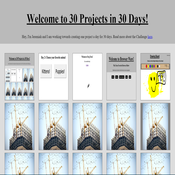
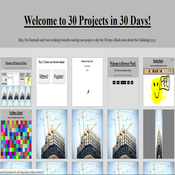
Day 6 is Done!
I had to do a short and sweet one today. Only had a couple hours to
brainstorm and create today.

diff --git a/index.html b/index.html
@@ -16,7 +16,7 @@
 		<figure class="flex-item"><a href="day_3/day_3.html"><img src="images/day3.png"><figcaption><h3>Day 3</h3><p>Catch the frog if you can.</p></figcaption></a></figure>
 		<figure class="flex-item"><a href="day_4/day_4.html"><img src="images/day4.png"><figcaption><h3>Day 4</h3><p>Take part in the Browser Wars!</p></figcaption></a></figure>
 		<figure class="flex-item"><a href="day_5/day_5.html"><img src="images/day5.png"><figcaption><h3>Day 5</h3><p>Test your art skills on the drawing board.</p></figcaption></a></figure>
-		<figure class="flex-item"><a href="#"><img src="images/coming_soon.png"><figcaption><h3>Day 6</h3><p>Coming Soon!</p></figcaption></a></figure>
+		<figure class="flex-item"><a href="day_6/day_6.html"><img src="images/day6.png"><figcaption><h3>Day 6</h3><p>Color the Rainbow!</p></figcaption></a></figure>
 		<figure class="flex-item"><a href="#"><img src="images/coming_soon.png"><figcaption><h3>Day 7</h3><p>Coming Soon!</p></figcaption></a></figure>
 		<figure class="flex-item"><a href="#"><img src="images/coming_soon.png"><figcaption><h3>Day 8</h3><p>Coming Soon!</p></figcaption></a></figure>
 		<figure class="flex-item"><a href="#"><img src="images/coming_soon.png"><figcaption><h3>Day 9</h3><p>Coming Soon!</p></figcaption></a></figure>

diff --git a/day_6/day_6.html b/day_6/day_6.html
@@ -1,0 +1,30 @@
+<!DOCTYPE html>
+<html lang=en>
+<head>
+	<title>Color The Rainbow- Day 6</title>
+	<link rel="stylesheet" type="text/css" href="../styles/normalize.css">
+	<link rel="stylesheet" type="text/css" href="../styles/main-styles.css">
+	<link rel="stylesheet" type="text/css" href="styles/color-styles.css">
+	<script src="https://ajax.googleapis.com/ajax/libs/jquery/1.12.0/jquery.min.js"></script>
+</head>
+
+<body>
+
+	<header>
+	<p id="link_back"><a  href="../index.html">&lt Go Back</a></p>
+	<p id="github">View the source on <a href="https://github.com/Jeremiahsvaren/30-projects-in-30-days">Github</a></p>
+		<h1>Color The Rainbow</h1>
+		<h2>Hover over the boxes to change the colors</h2>
+		
+	</header>
+	
+	
+		<div class="main">
+		</div>
+		
+	<footer><p>View the source on <a href="https://github.com/Jeremiahsvaren/30-projects-in-30-days">Github</a></p></footer>
+
+<script type="text/javascript" src="scripts/color.js"></script>
+	
+</body>
+</html>

diff --git a/day_6/scripts/color.js b/day_6/scripts/color.js
@@ -1,0 +1,35 @@
+
+
+$(document).ready(function(){
+	
+	//Creates page full of boxes
+	for(var i=0; i <=1000; i++){
+		$('.main').append("<div class='box' style='background-color:" + hexColorMaker() + ";'></div>")
+		
+	};
+	
+	//when .box is hovered over, creates new random color
+	$( ".box" ).on( "mouseenter", function() {
+		$( this ).css( "background-color", hexColorMaker() );
+	});
+	
+	
+	//Function to make a random hex color
+	function hexColorMaker(){
+		
+		var letters = '0123456789ABCDEF'.split('');
+		var color = '#';
+		for (var i = 0; i < 6; i++ ) {
+			color += letters[Math.floor(Math.random() * 16)];
+		}
+		return color;
+		
+	}
+		
+});
+
+
+
+
+
+

diff --git a/day_6/styles/color-styles.css b/day_6/styles/color-styles.css
@@ -1,0 +1,39 @@
+html, body{
+	width:100%;
+	height:100%;
+}
+
+
+#link_back{
+	float:left;
+}
+
+#github{
+	float:right;
+}
+
+h1 {
+    font-size: 48px;
+    margin: auto;
+    padding-top: 10px;
+    text-align: center;
+    text-decoration: underline;
+    width: 50%;
+}
+
+.main{
+	background-color:gray;
+	min-width:100%;
+	min-height:100%;
+	margin:auto;
+	display: flex;
+	flex-wrap:wrap;
+	align-content:stretch;
+}
+
+.box{
+	margin:0 auto;
+	justify-content: space-around;
+	width:5%;
+	height:50px;
+}

diff --git a/README.md b/README.md
@@ -19,4 +19,6 @@ View the the showcase <a href="http://challenge.jeremiahsvaren.com/">here</a>.
 
 <strong>Day 5</strong> - Draw on the paint board!
 
-<strong>Day 6</stong> - Will be posted by the end of Saturday Jan 22 2016
+<strong>Day 6</strong> - Color The Rainbow!
+
+<strong>Day 7</strong> - Will be posted on Sunday Jan 23 2016
